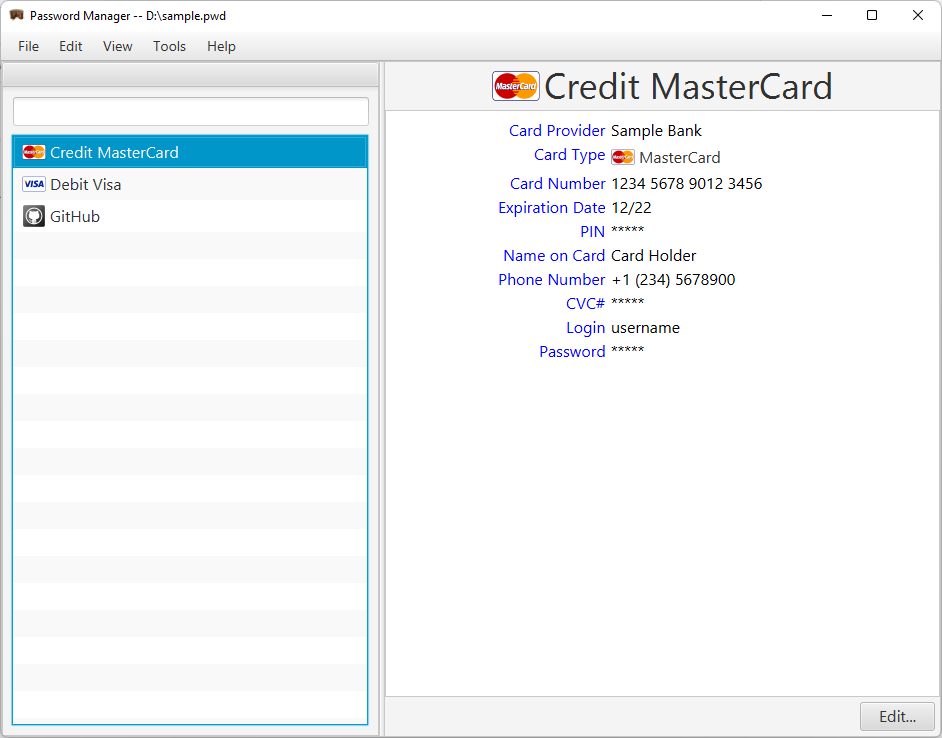
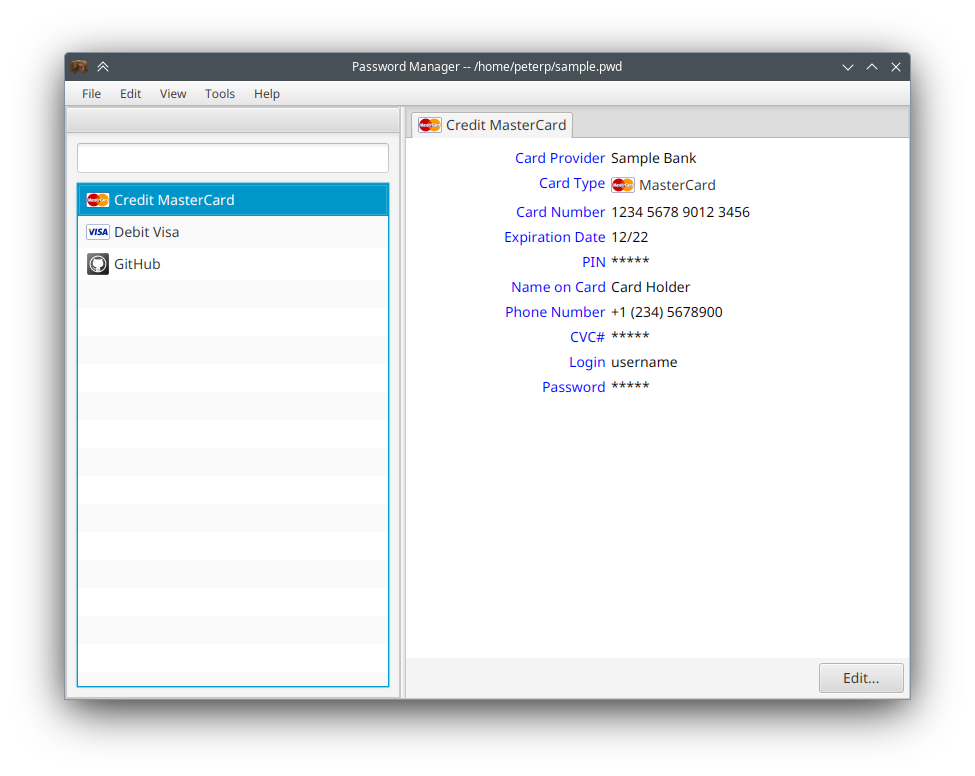
Password Manager 24.12.1
* Store dates as ISO date (backward compatible)
* Unified viewer panel

Changed region(s): [[0.0, 0.0, 1.0, 1.0], [0.9544, 0.0, 1.0, 0.0312]]

diff --git a/src/main/resources/templates/main.css b/src/main/resources/templates/main.css
@@ -79,5 +79,5 @@
 
 .cardContentTitle {
     -fx-font-family: "${controlsFontFamily}";
-    -fx-font-size: 36;
+    -fx-font-size: 14;
 }

diff --git a/src/main/java/org/panteleyev/pwdmanager/CardViewer.java b/src/main/java/org/panteleyev/pwdmanager/CardViewer.java
@@ -13,7 +13,9 @@ import javafx.scene.control.Label;
 import javafx.scene.control.Labeled;
 import javafx.scene.control.MenuItem;
 import javafx.scene.control.ScrollPane;
-import javafx.scene.image.ImageView;
+import javafx.scene.control.Tab;
+import javafx.scene.control.TabPane;
+import javafx.scene.control.TextArea;
 import javafx.scene.input.Clipboard;
 import javafx.scene.input.ClipboardContent;
 import javafx.scene.layout.BorderPane;
@@ -21,18 +23,21 @@ import javafx.scene.layout.ColumnConstraints;
 import javafx.scene.layout.GridPane;
 import javafx.scene.layout.Priority;
 import javafx.scene.layout.VBox;
+import org.panteleyev.pwdmanager.model.Card;
 import org.panteleyev.pwdmanager.model.CardType;
 import org.panteleyev.pwdmanager.model.Field;
 import org.panteleyev.pwdmanager.model.FieldType;
+import org.panteleyev.pwdmanager.model.Note;
 import org.panteleyev.pwdmanager.model.Picture;
 
 import java.util.List;
 
 import static org.panteleyev.fx.FxUtils.fxString;
-import static org.panteleyev.fx.LabelFactory.label;
+import static org.panteleyev.fx.TabFactory.tab;
 import static org.panteleyev.pwdmanager.Constants.MASK;
 import static org.panteleyev.pwdmanager.Constants.UI_BUNDLE;
 import static org.panteleyev.pwdmanager.PasswordManagerApplication.showDocument;
+import static org.panteleyev.pwdmanager.Styles.STYLE_CARD_CONTENT_TITLE;
 import static org.panteleyev.pwdmanager.Styles.STYLE_FIELD_NAME;
 import static org.panteleyev.pwdmanager.Styles.STYLE_FIELD_VALUE;
 import static org.panteleyev.pwdmanager.Styles.STYLE_GRID_PANE;
@@ -45,16 +50,16 @@ final class CardViewer extends BorderPane {
     private static final double LEFT_WIDTH = 40.0;
     private static final double RIGHT_WIDTH = 100.0 - LEFT_WIDTH;
 
+
     private final GridPane grid = new GridPane();
-    private final Label noteLabel = label(fxString(UI_BUNDLE, I18N_NOTES),
-            new ImageView(Picture.NOTE.getImage()));
-    private final Label noteViewer = new Label();
+    private final TextArea noteArea = new TextArea();
+
+    private final TabPane tabPane = new TabPane();
+    private final Tab fieldTab;
+    private final Tab noteTab = tab("Note", noteArea);
+
 
     CardViewer() {
-        initialize();
-    }
-
-    private void initialize() {
         grid.getStyleClass().add(STYLE_GRID_PANE);
 
         var col1 = new ColumnConstraints();
@@ -68,26 +73,36 @@ final class CardViewer extends BorderPane {
         grid.getColumnConstraints().setAll(col1, col2);
         grid.setFocusTraversable(false);
 
-        var vBox = new VBox(
-                grid,
-                noteLabel,
-                noteViewer
-        );
-
+        var vBox = new VBox(grid);
         VBox.setMargin(grid, new Insets(10, 5, 10, 5));
-
-        noteLabel.getStyleClass().add("noteLabel");
-        noteViewer.getStyleClass().add("noteViewer");
 
         var pane = new ScrollPane(vBox);
         pane.getStyleClass().add("whiteBackground");
         pane.setFitToWidth(true);
         pane.setHbarPolicy(ScrollPane.ScrollBarPolicy.NEVER);
         pane.setVbarPolicy(ScrollPane.ScrollBarPolicy.AS_NEEDED);
-        setCenter(pane);
+
+        noteTab.setGraphic(Picture.imageView(Picture.NOTE.getImage(), SMALL_IMAGE_SIZE, SMALL_IMAGE_SIZE));
+        noteTab.getStyleClass().add(STYLE_CARD_CONTENT_TITLE);
+
+        fieldTab = tab("", pane);
+        fieldTab.getStyleClass().add(STYLE_CARD_CONTENT_TITLE);
+
+        noteArea.setEditable(false);
+        setCenter(tabPane);
     }
 
-    void setData(List<FieldWrapper> items, String note) {
+    void clearData() {
+        grid.getChildren().clear();
+        tabPane.getTabs().remove(fieldTab);
+        tabPane.getTabs().remove(noteTab);
+    }
+
+    void setData(Card card, List<FieldWrapper> items) {
+        if (!tabPane.getTabs().contains(fieldTab)) {
+            tabPane.getTabs().addFirst(fieldTab);
+        }
+
         grid.getChildren().clear();
 
         int y = 0;
@@ -129,9 +144,35 @@ final class CardViewer extends BorderPane {
             GridPane.setValignment(valueLabel, VPos.TOP);
         }
 
-        noteViewer.setVisible(!note.isEmpty());
-        noteLabel.setVisible(!note.isEmpty());
-        noteViewer.setText(note);
+        var note = card.note();
+
+        var fieldTab = tabPane.getTabs().getFirst();
+        fieldTab.setText(card.name());
+        fieldTab.setGraphic(Picture.imageView(card.picture().getImage(), 24, 24));
+
+        if (note.isEmpty()) {
+            tabPane.getTabs().remove(noteTab);
+        } else {
+            if (!tabPane.getTabs().contains(noteTab)) {
+                tabPane.getTabs().add(noteTab);
+            }
+            noteArea.setText(note);
+        }
+
+        noteTab.setText(fxString(UI_BUNDLE, I18N_NOTES));
+        tabPane.getSelectionModel().selectFirst();
+    }
+
+    void setData(Note note) {
+        grid.getChildren().clear();
+
+        tabPane.getTabs().remove(fieldTab);
+        if (!tabPane.getTabs().contains(noteTab)) {
+            tabPane.getTabs().add(noteTab);
+        }
+
+        noteTab.setText(note.name());
+        noteArea.setText(note.note());
     }
 
     private void onHyperlinkClick(String url) {

diff --git a/src/main/java/org/panteleyev/pwdmanager/MainWindowController.java b/src/main/java/org/panteleyev/pwdmanager/MainWindowController.java
@@ -22,7 +22,6 @@ import javafx.scene.control.ButtonType;
 import javafx.scene.control.CheckMenuItem;
 import javafx.scene.control.ContextMenu;
 import javafx.scene.control.Control;
-import javafx.scene.control.Label;
 import javafx.scene.control.ListView;
 import javafx.scene.control.MenuBar;
 import javafx.scene.control.MenuItem;
@@ -98,7 +97,6 @@ import static org.panteleyev.pwdmanager.Shortcuts.SHORTCUT_N;
 import static org.panteleyev.pwdmanager.Shortcuts.SHORTCUT_O;
 import static org.panteleyev.pwdmanager.Shortcuts.SHORTCUT_T;
 import static org.panteleyev.pwdmanager.Shortcuts.SHORTCUT_V;
-import static org.panteleyev.pwdmanager.Styles.STYLE_CARD_CONTENT_TITLE;
 import static org.panteleyev.pwdmanager.bundles.Internationalization.I18N_CHANGE_PASSWORD;
 import static org.panteleyev.pwdmanager.bundles.Internationalization.I18N_CONFIRMATION;
 import static org.panteleyev.pwdmanager.bundles.Internationalization.I18N_COPY;
@@ -137,8 +135,6 @@ import static org.panteleyev.pwdmanager.imprt.ImportUtil.calculateImport;
 import static org.panteleyev.pwdmanager.model.Card.COMPARE_BY_ACTIVE;
 import static org.panteleyev.pwdmanager.model.Card.COMPARE_BY_FAVORITE;
 import static org.panteleyev.pwdmanager.model.Card.COMPARE_BY_NAME;
-import static org.panteleyev.pwdmanager.model.Picture.BIG_IMAGE_SIZE;
-import static org.panteleyev.pwdmanager.model.Picture.imageView;
 
 public final class MainWindowController extends Controller {
     private static final Logger LOGGER = Logger.getLogger(MainWindowController.class.getName());
@@ -159,11 +155,9 @@ public final class MainWindowController extends Controller {
 
     private final TextField searchTextField = searchField(TextFields::createClearableTextField, this::doSearch);
 
-    private final Label cardContentTitleLabel = new Label();
     private final Button cardEditButton = button(fxString(UI_BUNDLE, I18N_EDIT_BUTTON, ELLIPSIS), _ -> onEditCard());
     private final BorderPane recordViewPane = new BorderPane();
 
-    private final NoteViewer noteViewer = new NoteViewer();
     private final CardViewer cardContentView = new CardViewer();
 
     public MainWindowController(Stage stage) {
@@ -184,6 +178,8 @@ public final class MainWindowController extends Controller {
         cardEditButton.setDisable(true);
         leftPane.setTop(searchTextField);
         BorderPane.setMargin(searchTextField, new Insets(0, 0, 10, 0));
+
+        recordViewPane.setCenter(cardContentView);
 
         Platform.runLater(cardListView::requestFocus);
         Platform.runLater(this::openInitialFile);
@@ -274,13 +270,10 @@ public final class MainWindowController extends Controller {
         var buttonBar = new ButtonBar();
         buttonBar.getButtons().setAll(cardEditButton);
 
-        recordViewPane.setTop(cardContentTitleLabel);
         recordViewPane.setBottom(buttonBar);
 
         BorderPane.setMargin(buttonBar, new Insets(5, 5, 5, 5));
 
-        cardContentTitleLabel.getStyleClass().add(STYLE_CARD_CONTENT_TITLE);
-        BorderPane.setAlignment(cardContentTitleLabel, Pos.CENTER);
         BorderPane.setAlignment(buttonBar, Pos.CENTER);
 
         treeViewPane.setMaxHeight(Double.MAX_VALUE);
@@ -491,36 +484,23 @@ public final class MainWindowController extends Controller {
     }
 
     private void setupRecordViewer(WalletRecord record) {
-        cardContentTitleLabel.setText(record.name());
-        cardContentTitleLabel.setGraphic(imageView(record.picture().getBigImage(), BIG_IMAGE_SIZE, BIG_IMAGE_SIZE));
-
         switch (record) {
             case Card card -> {
-                recordViewPane.setCenter(cardContentView);
                 var wrappers = card.fields().stream()
                         .filter(f -> !f.isEmpty())
                         .map(FieldWrapper::new)
                         .toList();
-                cardContentView.setData(FXCollections.observableArrayList(wrappers), record.note());
+                cardContentView.setData(card, FXCollections.observableArrayList(wrappers));
             }
-            case Note note -> {
-                noteViewer.setText(note.note());
-                recordViewPane.setCenter(noteViewer);
-            }
+            case Note note -> cardContentView.setData(note);
+            case null -> cardContentView.clearData();
         }
     }
 
     private void onListViewSelected() {
         var item = cardListView.getSelectionModel().getSelectedItem();
         cardEditButton.setDisable(item == null || !item.active());
-
-        if (item == null) {
-            recordViewPane.setCenter(null);
-            cardContentTitleLabel.setText(null);
-            cardContentTitleLabel.setGraphic(null);
-        } else {
-            setupRecordViewer(item);
-        }
+        setupRecordViewer(item);
     }
 
     private Optional<WalletRecord> findByUuid(UUID uuid) {

diff --git a/src/main/java/org/panteleyev/pwdmanager/StringUtil.java b/src/main/java/org/panteleyev/pwdmanager/StringUtil.java
@@ -1,12 +1,16 @@
 /*
- Copyright © 2022 Petr Panteleyev <petr@panteleyev.org>
+ Copyright © 2022-2024 Petr Panteleyev <petr@panteleyev.org>
  SPDX-License-Identifier: BSD-2-Clause
  */
 package org.panteleyev.pwdmanager;
 
 import java.time.LocalDate;
+import java.time.format.DateTimeFormatter;
+import java.time.format.DateTimeParseException;
 
 public final class StringUtil {
+    private static final DateTimeFormatter DATE_FORMATTER = DateTimeFormatter.ofPattern("yyyy-MM-dd");
+
     private StringUtil() {
     }
 
@@ -23,8 +27,12 @@ public final class StringUtil {
         try {
             var longValue = Long.parseLong(value);
             return LocalDate.ofEpochDay(longValue);
-        } catch (NumberFormatException ex) {
-            return LocalDate.now();
+        } catch (NumberFormatException _) {
+            try {
+                return LocalDate.parse(value, DATE_FORMATTER);
+            } catch (DateTimeParseException _) {
+                return LocalDate.now();
+            }
         }
     }
 }

diff --git a/src/main/java/org/panteleyev/pwdmanager/Serializer.java b/src/main/java/org/panteleyev/pwdmanager/Serializer.java
@@ -91,7 +91,7 @@ public class Serializer {
     }
 
     public static void serialize(OutputStream out, List<WalletRecord> records) {
-        try (var w = XMLStreamWriterWrapper.newInstance(out, Set.of(LOCAL_DATE_AS_EPOCH_DAY))) {
+        try (var w = XMLStreamWriterWrapper.newInstance(out)) {
             w.document(WALLET, () -> {
                 w.attribute(ATTR_VERSION, BUILD_INFO_BUNDLE.getString(ATTR_VERSION.getLocalPart()));
 

diff --git a/src/main/java/org/panteleyev/pwdmanager/model/Picture.java b/src/main/java/org/panteleyev/pwdmanager/model/Picture.java
@@ -39,8 +39,8 @@ public enum Picture {
     FLICKR,
     FOLDER,
     GENERIC,
-    GLASSES,
     GITHUB,
+    GLASSES,
     GPLUS,
     HOUSE,
     ICQ,
